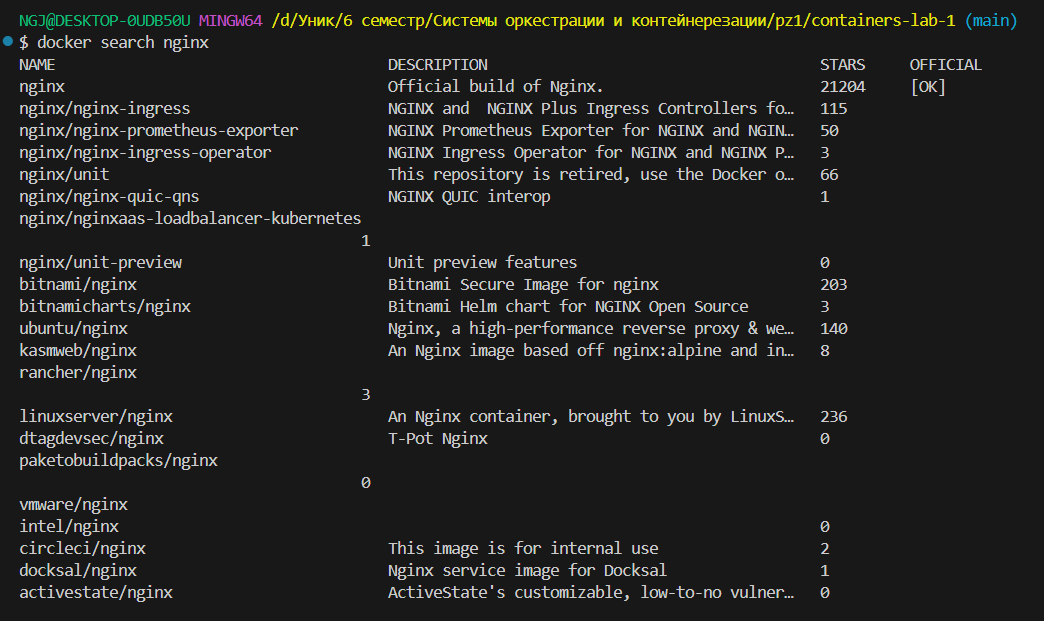
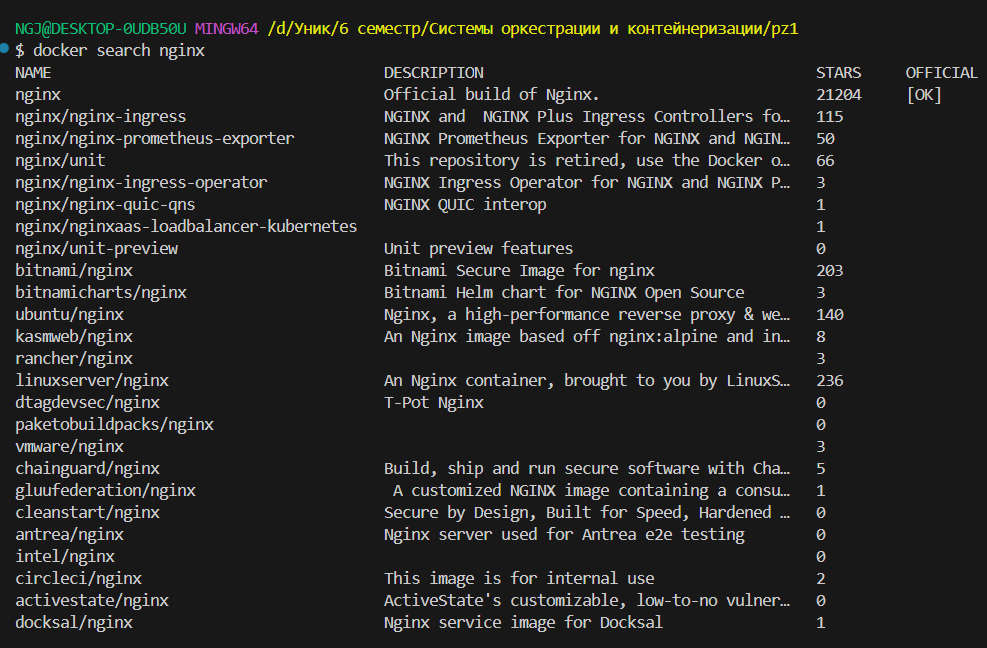
added REPORT.md file

diff --git a/REPORT.md b/REPORT.md
@@ -1,10 +1,183 @@
 # Отчет по практической работе №1
+## Выполнил: GMS
+## Группа: 16
+## Дата выполнения: 10.03.2026
 
-Выполнил: GMS
-Группа: 16
-### 2.1 Работа с образами
+
+### 1. Выполнение команды Docker
+#### 1.1 Работа с образами
 
 Поиск образов в Docker Hub
-![alt text](pictures/image.png)
+![alt text](pics/image.png)
 
 Скачивание образа
+![alt text](pics/image-1.png)
+
+Просмотр локальных образов
+![alt text](pics/image-2.png)
+
+Просмотр истории слоев образа
+![alt text](pics/image-3.png)
+
+Удаление образа
+![alt text](pics/image-4.png)
+
+**Практическое задание**
+
+Установка PostgresSQL:
+![alt text](pics/image-5.png)
+
+Установка golang:
+![alt text](pics/image-6.png)
+
+#### Жизненный цикл контейнеров
+
+Запуск контейнера alpine в интерактивном режиме
+![alt text](pics/image-7.png)
+
+
+Запуск контейнера в фоновом режиме:
+![alt text](pics/image-8.png)
+
+Просмотр запущенных контейнеров
+![alt text](pics/image-9.png)
+
+Промотр всех контейнеров (включая остановленные)
+![alt text](pics/image-10.png)
+
+Просмотр логов контейнера
+![alt text](pics/image-11.png)
+
+Подключение к работающему контейнеру и выполнение команды
+![alt text](pics/image-12.png)
+
+Остановка контейнера
+![alt text](pics/image-13.png)
+
+Запуск остановленного контейнера
+![alt text](pics/image-14.png)
+
+Удаление контейнера
+![alt text](pics/image-15.png)
+
+**Практическое задание**
+![alt text](pics/image-16.png)
+
+#### 1.3 Работа с томами
+
+Создание именованного тома
+![alt text](pics/image-17.png)
+
+Просмотр томов
+![alt text](pics/image-18.png)
+
+Информация о томе
+![alt text](pics/image-19.png)
+
+Запуск контейнера с томом
+![alt text](pics/image-20.png)
+
+Создание тестовой таблицы
+![alt text](pics/image-21.png)
+
+Остановка и удаление контейнера
+![alt text](pics/image-22.png)
+
+Запуск нового контейнера с тем же томом
+![alt text](pics/image-23.png)
+
+Проверка, что данные сохранились
+![alt text](pics/image-24.png)
+
+**Практическое задание**
+![alt text](pics/image-25.png)
+![alt text](pics/image-26.png)
+Проверка в браузере:
+![alt text](pics/image-27.png)
+
+#### 1.4 Сеть в Docker
+
+Создание сети
+![alt text](pics/image-28.png)
+
+Просмотр сетей
+![alt text](pics/image-29.png)
+
+Запуск контейнеров в одной сети
+![alt text](pics/image-30.png)
+
+Проверка связи между контейнерами
+![alt text](pics/image-31.png)
+
+**Практическое задание**
+![alt text](pics/image-32.png)
+
+#### Backend на Go
+main.go
+![alt text](pics/image-33.png)
+
+go.mod
+![alt text](pics/image-34.png)
+
+#### Frontend и статика
+index.html
+![alt text](pics/image-35.png)
+
+nginx.conf
+![alt text](pics/image-36.png)
+
+#### Скрипты инициализации БД
+![alt text](pics/image-37.png)
+
+#### Dockerfile для Go приложения
+![alt text](pics/image-38.png)
+
+#### Docker-compose для локальной разработки
+![alt text](pics/image-39.png)
+
+#### Создание Personal Access Token
+![alt text](pics/image-40.png)
+
+#### Настройка Secrets в репозитории
+
+![alt text](pics/image-41.png)
+
+#### Создание Github Actions workflow
+![alt text](pics/image-42.png)
+
+#### Текстовый docker-compose для CI
+
+![alt text](pics/image-43.png)
+
+### 2. Скриншоты работающего приложения
+
+#### 2.1 Главная страница
+
+![alt text](pics/image-44.png)
+
+#### 2.2 Добавление пользователя
+
+![alt text](pics/image-45.png)
+
+#### 2.3 Список пользоватлей в БД
+
+![alt text](pics/image-46.png)
+
+### 3 Github Actions
+
+#### 3.1 Успешный запуск workflow
+![alt text](pics/image-47.png)
+
+#### 3.2 Опубликованные образы в GHCR
+
+![alt text](pics/image-48.png)
+
+### 4. Выводы
+
+В данной практической работы были получены навыки развертывания проекта на языке Go. В ходе работы былы развернуты PostgreSQL и nginx с помощью встроенных docker команд, а также все компоненты проекта были связаны общей сетью. Также были настроены отказоустойчивые хранилища данных - тома.
+
+Не обошлось без трудностей. В процессе сборки проекта возникла проблема, при которой не выполнялось копирование index файла в папку static директории app. Из-за этого возникала ошибка выполнения docker-compose up.
+
+Также в ходе практики опытным путем было выяснено, что docker крайне неустойчиво работает с путями к файлам, содержащими пробелы и кириллицу.
+
+Также несколько раз возникали проблемы, когда требуемый для работы порт оказывался занят.
